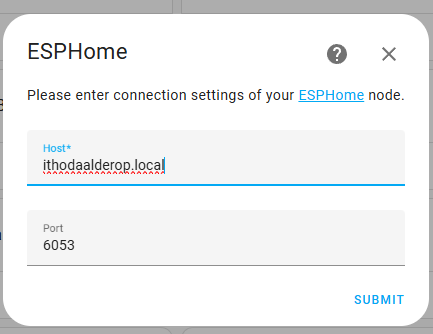
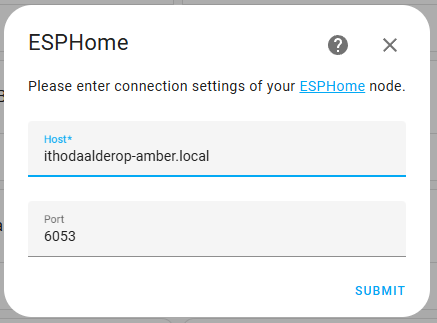
Updated readme

diff --git a/README.md b/README.md
@@ -14,6 +14,8 @@ The device is based on ESPHome, this means it can be integrated in Home Assistan
 
 The module has several connections:
 
+**TODO: Add image of control module**
+
 * Modbus connection (on the lower side of the device, marked **M**)
 * Two or four relays (on the right side of the device, marked **R1-4**)
 * Three temperature sensor connection (the upper three connection on the left side, marked **T1-3**)
@@ -63,8 +65,6 @@ Once the control module is connected to the WiFi Home Assistant should detect th
 
 Should the control module not be automatically detected by Home Assistant, you can [manually install it](https://my.home-assistant.io/redirect/config_flow_start?domain=esphome).  
 Use the following details to install the control module:
-
-**TODO: Update image to show the correct dns name**
 
 ![ESPHome configuration](/images/hass-config-esphome-en.png)
 
